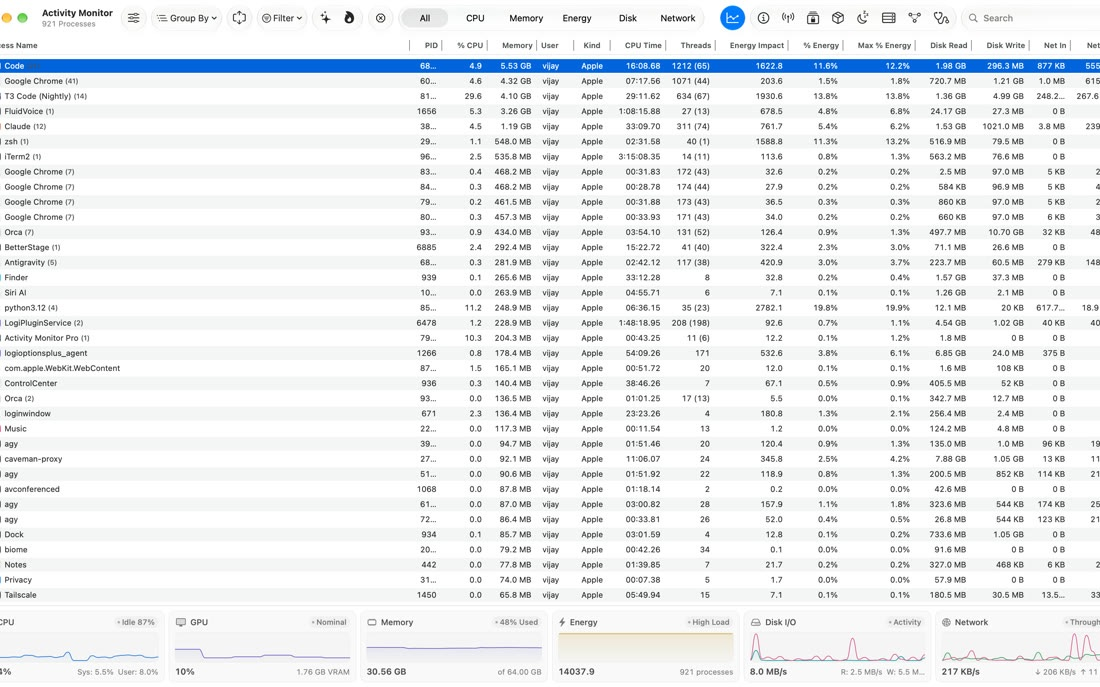
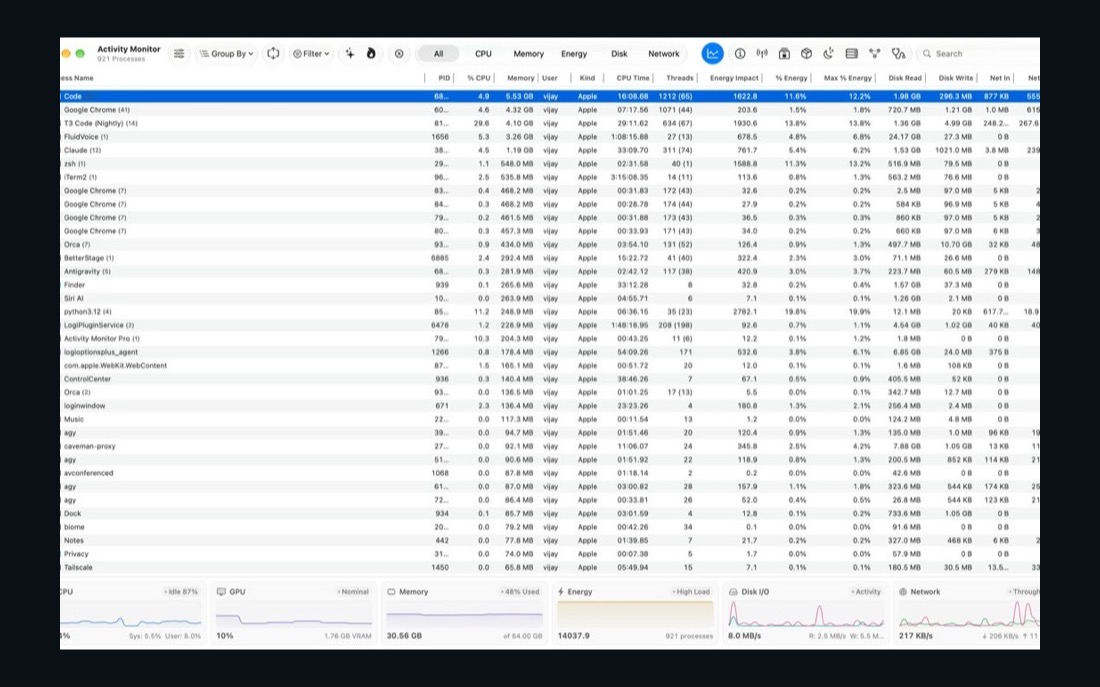
refactor(cards): horizontal layout, readme shots, compact strengths
Single-column project rows, text left and image right capped at
image height. Buttons shrink into the tag row. New shots for
M Wardrobe, Smart LocalAI, Activity Monitor and Mini Harness.
Resume opens on compact strengths with an Applied AI group.

diff --git a/assets/css/app.css b/assets/css/app.css
@@ -232,6 +232,15 @@ p{color:var(--ink-2); max-width:64ch; margin:0 0 11px}
 .chip{font-family:var(--mono); font-size:11.5px; padding:5px 11px; border:1px solid var(--line); border-radius:20px; color:var(--ink-2); background:var(--surface); transition:border-color .25s, color .25s}
 .chip:hover{border-color:var(--accent); color:var(--ink)}
 
+/* ---- résumé header + compact strengths ---- */
+.resumetop{padding-bottom:8px}
+#strengths{padding:14px 0 10px}
+#strengths .eyebrow{margin-bottom:8px}
+#strengths h3{font-size:13.5px; margin:0}
+#strengths .chips{gap:6px; margin-top:6px}
+#strengths .chips + h3{margin-top:12px}
+#strengths .chip{font-size:10.5px; padding:3px 9px}
+
 .rows{border-top:1px solid var(--line)}
 .row{display:grid; grid-template-columns:64px minmax(0,1fr) auto; gap:14px; align-items:baseline; padding:11px 8px; border-bottom:1px solid var(--line); transition:background .26s var(--ease), padding-left .26s var(--ease)}
 .row:hover{background:var(--surface); padding-left:14px}
@@ -359,15 +368,16 @@ p{color:var(--ink-2); max-width:64ch; margin:0 0 11px}
 }
 
 /* ============================================================ project cards */
-.pgrid{display:grid; grid-template-columns:repeat(auto-fit,minmax(330px,1fr)); gap:14px}
+.pgrid{display:grid; grid-template-columns:1fr; gap:14px}
 .pcard{
-  position:relative; display:flex; flex-direction:column; border:1px solid var(--line); border-radius:10px;
-  background:var(--surface); overflow:hidden;
+  position:relative; display:grid; grid-template-columns:minmax(0,1fr) min(42%,440px); border:1px solid var(--line); border-radius:10px;
+  background:var(--surface); overflow:hidden; container-type:inline-size;
   transition:transform .3s var(--ease), border-color .3s var(--ease), box-shadow .3s var(--ease);
 }
 .pcard:hover{transform:translateY(-4px); border-color:var(--accent); box-shadow:var(--shadow)}
-.pshot{position:relative; aspect-ratio:16/10; background:var(--surface-2); border-bottom:1px solid var(--line); overflow:hidden}
-.pshot img{width:100%; height:100%; object-fit:cover; object-position:top center; display:block}
+.pshot{position:relative; grid-column:2; grid-row:1; aspect-ratio:1100/688; background:var(--surface-2); border-left:1px solid var(--line); overflow:hidden}
+.pbody{grid-column:1; grid-row:1; min-height:0; max-height:calc(min(42cqw, 440px) * 688 / 1100); overflow:hidden}
+.pshot img{position:absolute; inset:0; width:100%; height:100%; object-fit:contain; object-position:center; display:block}
 .pno{
   position:absolute; bottom:10px; right:10px; font-family:var(--mono); font-size:10px; letter-spacing:.1em;
   padding:3px 8px; border-radius:4px; background:var(--paper); color:var(--muted); border:1px solid var(--line);
@@ -378,13 +388,15 @@ p{color:var(--ink-2); max-width:64ch; margin:0 0 11px}
 }
 .noshot span{font-size:19px; font-weight:600; letter-spacing:-.02em}
 
-.pbody{padding:15px; display:flex; flex-direction:column; flex:1; gap:8px}
+.pbody{padding:14px 20px; display:flex; flex-direction:column; justify-content:center; min-width:0; gap:8px}
 .phead{display:flex; align-items:center; gap:10px}
 .phead h3{font-size:18px; flex:1; min-width:0}
 .pbody p{font-size:14.5px; margin:0; color:var(--ink-2)}
-.pbody .tags{margin-top:auto}
+.pbody .pmeta{margin-top:auto}
+.pmeta{display:flex; align-items:center; gap:10px; flex-wrap:wrap}
+.pmeta .tags{flex:1 1 auto; min-width:0}
 
-.pfoot{display:flex; align-items:center; gap:12px; padding-top:10px; border-top:1px solid var(--line)}
+.pfoot{display:flex; align-items:center; gap:12px; padding-top:4px}
 .pqr{
   width:82px; height:82px; flex:none; padding:7px; border:1px solid var(--line); border-radius:7px;
   background:var(--surface); color:var(--ink); display:block;
@@ -414,16 +426,16 @@ p{color:var(--ink-2); max-width:64ch; margin:0 0 11px}
 
 /* ---- two destinations per project: the app, and the code ---- */
 .pfoot{align-items:flex-start}
-.pstack{display:flex; flex-direction:column; gap:7px; flex:1; min-width:0}
-.pacts{display:flex; border:1px solid var(--line); border-radius:8px; overflow:hidden}
+.pmeta .pstack{display:flex; flex:none; margin-left:auto}
+.pacts{display:flex; border:1px solid var(--line); border-radius:6px; overflow:hidden}
 .pact{
-  flex:1; min-width:0; display:flex; align-items:center; justify-content:center; gap:8px;
-  padding:11px 10px; background:var(--surface); color:var(--ink-2);
-  font-family:var(--mono); font-size:11.5px; letter-spacing:.03em; white-space:nowrap;
+  flex:none; display:flex; align-items:center; justify-content:center; gap:6px;
+  padding:5px 9px; background:var(--surface); color:var(--ink-2);
+  font-family:var(--mono); font-size:10.5px; letter-spacing:.03em; white-space:nowrap;
   transition:background .22s var(--ease), color .22s var(--ease);
 }
 .pact + .pact{border-left:1px solid var(--line)}
-.pact svg{width:13px; height:13px; fill:currentColor; flex:none}
+.pact svg{width:11px; height:11px; fill:currentColor; flex:none}
 .pact:hover{background:var(--accent); color:var(--on-accent)}
 .pact.off{color:var(--muted); background:var(--surface-2); cursor:not-allowed}
 .pact.off:hover{background:var(--surface-2); color:var(--muted)}
@@ -472,13 +484,16 @@ p{color:var(--ink-2); max-width:64ch; margin:0 0 11px}
   .row .y{font-size:9.5px}
   .row .t{font-size:12.5px}
   .pgrid{gap:12px}
-  .pbody{padding:11px; gap:8px}
+  .pcard{display:flex; flex-direction:column}
+  .pshot{grid-column:auto; grid-row:auto; width:auto; aspect-ratio:16/10; border-left:0; border-bottom:1px solid var(--line)}
+  .pno{top:10px; bottom:auto}
+  .pbody{grid-column:auto; grid-row:auto; max-height:none; overflow:visible; padding:11px; gap:8px}
   .phead h3{font-size:16px}
   .pbody p{font-size:11.5px}
   .pno{font-size:9px}
   .noshot span{font-size:17px}
-  .pfoot{padding-top:10px}
-  .pact{font-size:9px; padding:8px 6px}
+  .pfoot{padding-top:4px}
+  .pact{font-size:9px; padding:5px 6px}
   .links{gap:8px}
   .link{font-size:9.5px; padding:11px 10px}
   .link small{font-size:9px}

diff --git a/assets/js/data.js b/assets/js/data.js
@@ -161,12 +161,6 @@ export const projects = [
     desc: 'A tech demo: real-time cloth physics on a mobile web page. Every garment is a cloth simulation on a hanger, solved in plain JavaScript and drawn with WebGL through Three.js.',
   },
   {
-    name: 'ai-newtab', title: 'AI Homepage', lang: 'TypeScript', updated: '2026-10-08',
-    status: 'no-deployment',
-    shot: '/public/shots/ai-newtab.jpg',
-    desc: 'A new tab that reads the internet for you. An agent looks at what you actually browse and writes a fresh homepage from it — rebuilt in the background, in whatever style you describe.',
-  },
-  {
     name: 'ollajev', title: 'Ollajev', lang: 'Python', updated: '2026-10-08',
     status: 'live',
     deployUrl: 'https://nvkudva.github.io/ollajev/',
@@ -174,13 +168,9 @@ export const projects = [
     desc: 'Like Ollama, for decision models. Pull a System One model from Hugging Face and run it on your machine behind the same /v1/systemone API as the hosted Jev.',
   },
   {
-    name: 'obedient-ai', title: 'obedient-ai', lang: 'Shell', updated: '2026-10-03',
-    status: 'no-deployment',
-    desc: 'A Claude Code plugin that loads a fixed set of terse standing rules into every session, so you stop repeating the same instructions.',
-  },
-  {
     name: 'mini-harness', title: 'Mini Harness', lang: 'JavaScript', updated: '2026-10-01',
     status: 'no-deployment',
+    shot: '/public/shots/mini-harness.jpg',
     desc: 'A coding agent in about 160 lines of Node.js. No dependencies, and it works with any OpenAI-compatible local LLM.',
   },
   {
@@ -188,13 +178,6 @@ export const projects = [
     status: 'no-deployment',
     shot: '/public/shots/laya-server.jpg',
     desc: 'A local FastAPI server for the Laya decision model. A drop-in replacement for TypeSafe’s Jev API that returns calibrated probabilities from one forward pass.',
-  },
-  {
-    name: 'laya-web', title: 'Laya Web', lang: 'TypeScript', updated: '2026-09-21',
-    status: 'live',
-    deployUrl: 'https://laya-web.pages.dev',
-    shot: '/public/shots/laya-web.jpg',
-    desc: 'The Laya decision model running entirely in the browser. 8-bit weights, no backend, nothing leaves the tab.',
   },
   {
     name: 'Smart-News', title: 'SmartNews', lang: 'TypeScript', updated: '2026-09-08',
@@ -252,12 +235,6 @@ export const projects = [
     shot: '/public/shots/maga-lang.jpg',
     desc: 'A toy programming language with Kannada keywords, and a zero-build browser playground for writing and running it — `helu maga` instead of `print`.',
   },
-  {
-    name: 'ask-my-brain', title: 'Ask My Brain', lang: 'HTML', updated: '2026-09-07',
-    wip: true, status: 'no-deployment', draft: true,
-    shot: '/public/shots/ask-my-brain.jpg',
-    desc: 'A personal RAG surface — ask questions against your own accumulated notes and documents.',
-  },
 ];
 
 export const experience = [
@@ -305,6 +282,7 @@ export const experience = [
 
 export const strengths = {
   Leadership: ['Org design & scaling', 'Platform strategy & architecture', 'GenAI adoption', 'Cross-geo execution', 'Leadership development', 'Operational excellence', 'Stakeholder management'],
+  'Applied AI': ['AI agents', 'Multi-agent orchestration', 'RAG', 'Local LLMs', 'On-device inference', 'WebAssembly inference', 'Coding agents', 'Voice interfaces'],
   Technical: ['JavaScript', 'React', 'Node.js', 'GraphQL', 'Web architecture', 'PWA', 'RPC', 'Microservices', 'Java'],
 };
 

diff --git a/assets/js/views.js b/assets/js/views.js
@@ -48,29 +48,30 @@ function card(p, i) {
      closed-source project with no deployment has nowhere to go, so it stays
      inert rather than leading to a 404. */
   const openTo = p.deployUrl || p.site || (p.private ? '' : repo);
+  const qrLink = (p.deployUrl || p.site) && qr[p.name]
+    ? `<a class="pqr" href="${p.deployUrl || p.site}" target="_blank" rel="noopener noreferrer" aria-label="Open ${esc(p.title)} on your phone" title="Scan or click to open ${esc(p.title)}">${qr[p.name]}</a>`
+    : '';
 
   return `
-    <article class="pcard"${openTo ? ` data-open="${openTo}"` : ''}>
+    <article class="pcard" id="p-${esc(p.name)}"${openTo ? ` data-open="${openTo}"` : ''}>
       <div class="pshot">${shot}</div>
       <div class="pbody">
         <div class="phead">
           <h3>${esc(p.title)}</h3>
         </div>
         <p>${esc(p.desc)}</p>
-        <div class="tags">
-          ${p.lang ? `<span class="tag lang">${esc(p.lang)}</span>` : ''}
-          ${p.license ? `<span class="tag">${esc(p.license)}</span>` : ''}
-          ${p.wip ? '<span class="tag wip">in progress</span>' : ''}
-          ${p.private ? '<span class="tag lock">closed source</span>' : ''}
-        </div>
-        <div class="pfoot">
-          ${(p.deployUrl || p.site) && qr[p.name]
-            ? `<a class="pqr" href="${p.deployUrl || p.site}" target="_blank" rel="noopener noreferrer" aria-label="Open ${esc(p.title)} on your phone" title="Scan or click to open ${esc(p.title)}">${qr[p.name]}</a>`
-            : ''}
+        <div class="pmeta">
+          <div class="tags">
+            ${p.lang ? `<span class="tag lang">${esc(p.lang)}</span>` : ''}
+            ${p.license ? `<span class="tag">${esc(p.license)}</span>` : ''}
+            ${p.wip ? '<span class="tag wip">in progress</span>' : ''}
+            ${p.private ? '<span class="tag lock">closed source</span>' : ''}
+          </div>
           <div class="pstack">
             ${actions(p, repo)}
           </div>
         </div>
+        ${qrLink ? `<div class="pfoot">${qrLink}</div>` : ''}
       </div>
       <span class="pno">${String(i + 1).padStart(2, '0')}</span>
     </article>`;
@@ -172,8 +173,19 @@ export const buildingView = () => `
 /* ------------------------------------------------------------------ */
 
 export const resumeView = () => `
-  <section>
+  <section class="resumetop">
+    <div class="eyebrow">Résumé</div>
     <h1 style="font-size:clamp(28px,4vw,44px)">Experience</h1>
+  </section>
+
+  <section id="strengths">
+    <div class="eyebrow">Core strengths</div>
+    ${Object.entries(strengths).map(([k, v]) => `
+      <h3>${esc(k)}</h3>
+      <div class="chips">${v.map((s) => `<span class="chip">${esc(s)}</span>`).join('')}</div>`).join('')}
+  </section>
+
+  <section id="experience">
     ${experience.map((e) => `
       <article class="job">
         <div><div class="when">${esc(e.years)}</div><div class="where">${esc(e.where)}</div></div>
@@ -183,13 +195,6 @@ export const resumeView = () => `
           <ul>${e.points.map((p) => `<li>${esc(p)}</li>`).join('')}</ul>
         </div>
       </article>`).join('')}
-  </section>
-
-  <section>
-    <div class="eyebrow">Core strengths</div>
-    ${Object.entries(strengths).map(([k, v]) => `
-      <h3>${esc(k)}</h3>
-      <div class="chips">${v.map((s) => `<span class="chip">${esc(s)}</span>`).join('')}</div>`).join('')}
   </section>
 
   <section>
